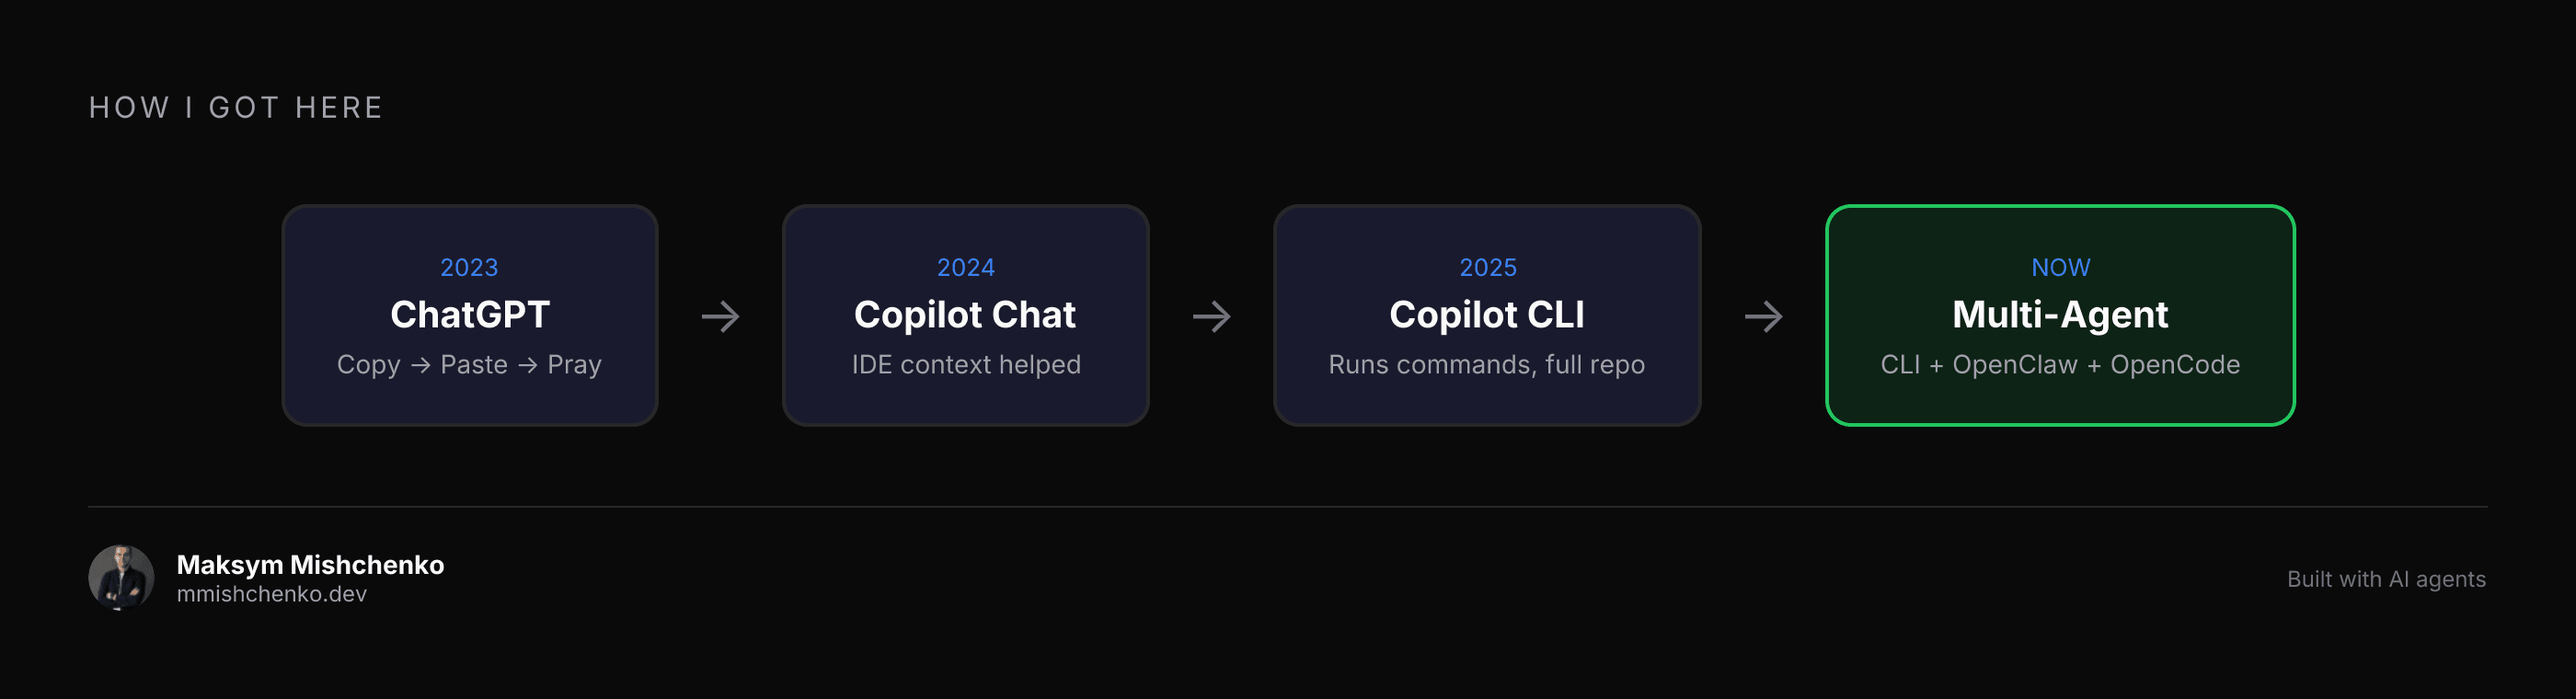
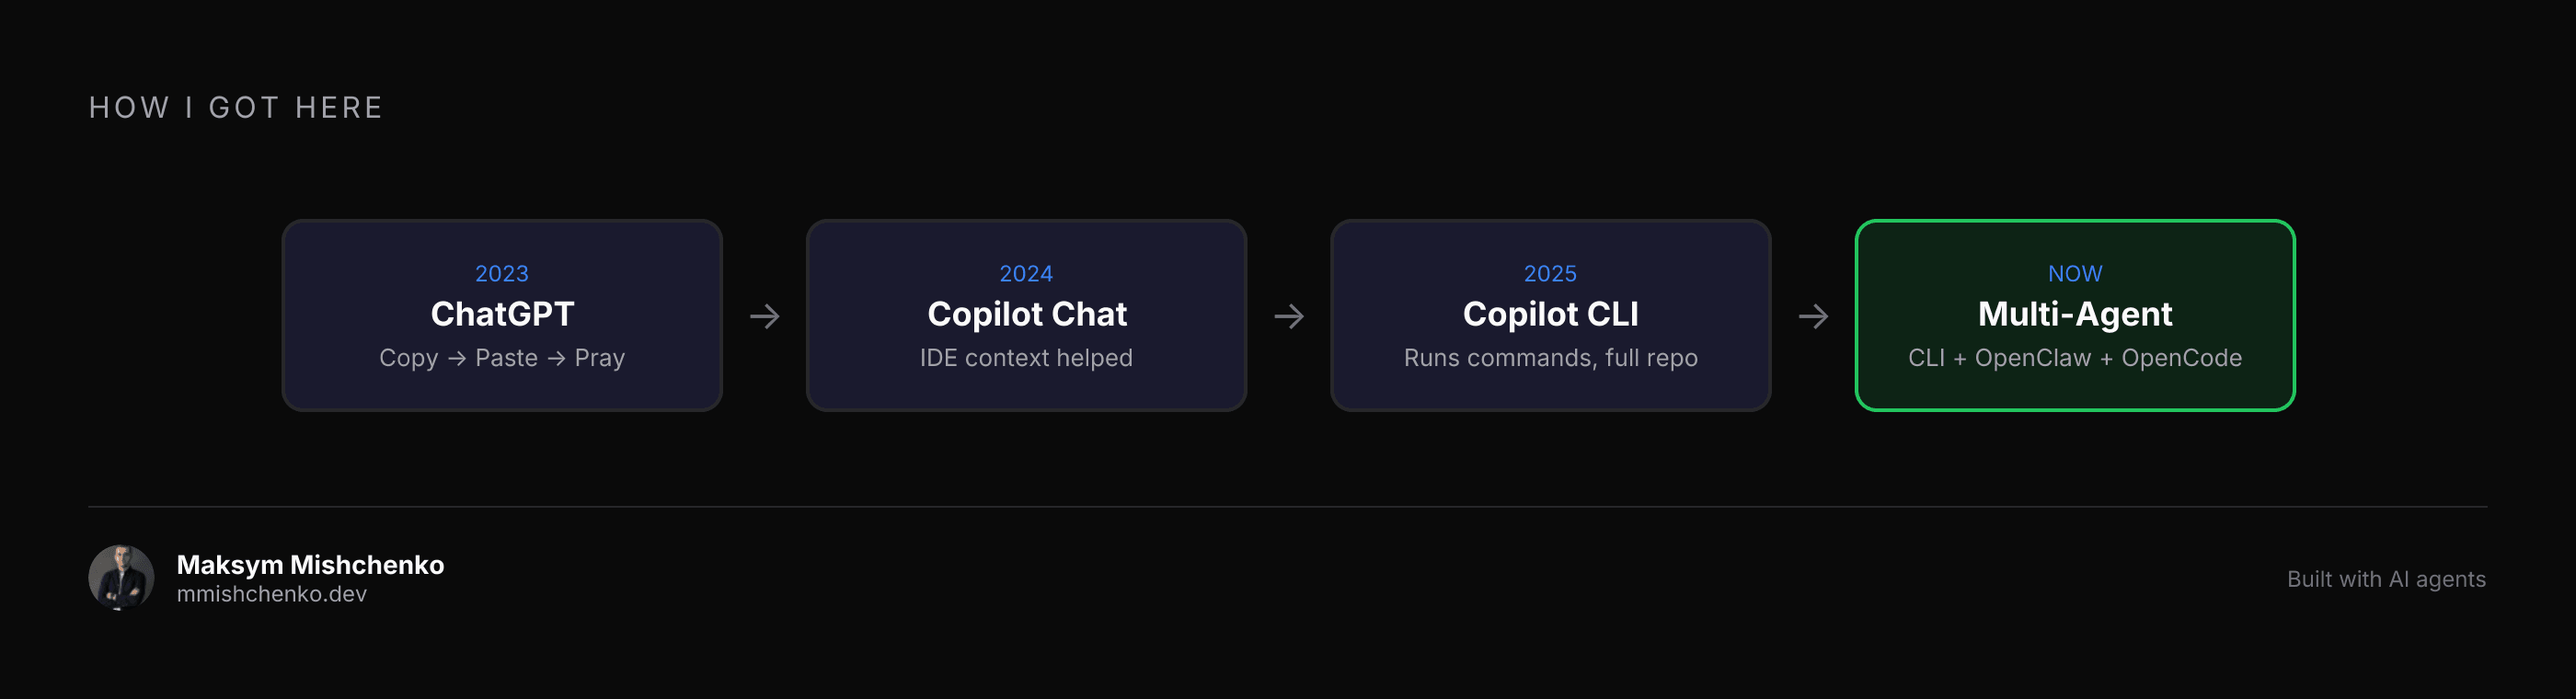
fix: prevent shape overlap in blog images — use fixed widths

diff --git a/scripts/blog-images/generate.ts b/scripts/blog-images/generate.ts
@@ -142,7 +142,7 @@ function TimelineTemplate({ title, steps, avatar }: { title: string; steps: Time
         {
           type: "div",
           props: {
-            style: { display: "flex", alignItems: "center", gap: 20, flex: 1, justifyContent: "center" },
+            style: { display: "flex", alignItems: "center", gap: 12, flex: 1, justifyContent: "center" },
             children: steps.flatMap((step, i) => {
               const box = {
                 type: "div",
@@ -151,21 +151,21 @@ function TimelineTemplate({ title, steps, avatar }: { title: string; steps: Time
                     display: "flex",
                     flexDirection: "column",
                     alignItems: "center",
-                    padding: "24px 28px",
+                    padding: "20px 22px",
                     background: step.highlight ? COLORS.green + "22" : COLORS.card,
                     border: `2px solid ${step.highlight ? COLORS.green : COLORS.border}`,
-                    borderRadius: 14,
-                    minWidth: 200,
+                    borderRadius: 12,
+                    width: 240,
                   },
                   children: [
-                    { type: "span", props: { style: { color: COLORS.accent, fontSize: 13, marginBottom: 6, display: "flex" }, children: step.year } },
-                    { type: "span", props: { style: { color: COLORS.text, fontSize: 20, fontWeight: 700, marginBottom: 6, display: "flex" }, children: `${step.emoji} ${step.title}` } },
-                    { type: "span", props: { style: { color: COLORS.muted, fontSize: 14, textAlign: "center", display: "flex" }, children: step.subtitle } },
+                    { type: "span", props: { style: { color: COLORS.accent, fontSize: 12, marginBottom: 4, display: "flex" }, children: step.year } },
+                    { type: "span", props: { style: { color: COLORS.text, fontSize: 18, fontWeight: 700, marginBottom: 4, display: "flex" }, children: `${step.emoji} ${step.title}` } },
+                    { type: "span", props: { style: { color: COLORS.muted, fontSize: 13, textAlign: "center", display: "flex" }, children: step.subtitle } },
                   ],
                 },
               };
               if (i < steps.length - 1) {
-                return [box, { type: "span", props: { style: { color: COLORS.dim, fontSize: 28, display: "flex" }, children: "→" } }];
+                return [box, { type: "span", props: { style: { color: COLORS.dim, fontSize: 22, display: "flex" }, children: "→" } }];
               }
               return [box];
             }),
@@ -290,48 +290,48 @@ function FlowTemplate({ title, input, steps, outputs, avatar }: { title: string;
                     {
                       type: "div",
                       props: {
-                        style: { display: "flex", padding: "14px 28px", background: COLORS.card, border: `2px solid ${COLORS.orange}`, borderRadius: 10 },
-                        children: [{ type: "span", props: { style: { color: COLORS.text, fontSize: 17, display: "flex" }, children: `${input.emoji} ${input.text}` } }],
+                        style: { display: "flex", padding: "12px 24px", background: COLORS.card, border: `2px solid ${COLORS.orange}`, borderRadius: 10 },
+                        children: [{ type: "span", props: { style: { color: COLORS.text, fontSize: 15, display: "flex" }, children: `${input.emoji} ${input.text}` } }],
                       },
                     },
                   ],
                 },
               },
               // Arrow down
-              { type: "div", props: { style: { color: COLORS.dim, fontSize: 24, display: "flex" }, children: "↓" } },
+              { type: "div", props: { style: { color: COLORS.dim, fontSize: 20, display: "flex" }, children: "↓" } },
               // Steps row
               {
                 type: "div",
                 props: {
-                  style: { display: "flex", gap: 16, alignItems: "center" },
+                  style: { display: "flex", gap: 10, alignItems: "center" },
                   children: steps.flatMap((step, i) => {
                     const box = {
                       type: "div",
                       props: {
-                        style: { display: "flex", flexDirection: "column", alignItems: "center", padding: "18px 24px", background: COLORS.cardHighlight, border: `1px solid ${COLORS.accent}`, borderRadius: 10, minWidth: 160 },
+                        style: { display: "flex", flexDirection: "column", alignItems: "center", padding: "14px 18px", background: COLORS.cardHighlight, border: `1px solid ${COLORS.accent}`, borderRadius: 10, width: 200 },
                         children: [
-                          { type: "span", props: { style: { fontSize: 17, fontWeight: 700, color: COLORS.text, display: "flex" }, children: `${step.emoji} ${step.title}` } },
-                          { type: "span", props: { style: { fontSize: 13, color: COLORS.muted, marginTop: 6, display: "flex" }, children: step.subtitle } },
+                          { type: "span", props: { style: { fontSize: 15, fontWeight: 700, color: COLORS.text, display: "flex" }, children: `${step.emoji} ${step.title}` } },
+                          { type: "span", props: { style: { fontSize: 12, color: COLORS.muted, marginTop: 4, display: "flex" }, children: step.subtitle } },
                         ],
                       },
                     };
-                    if (i < steps.length - 1) return [box, { type: "span", props: { style: { color: COLORS.accent, fontSize: 22, display: "flex" }, children: "→" } }];
+                    if (i < steps.length - 1) return [box, { type: "span", props: { style: { color: COLORS.accent, fontSize: 18, display: "flex" }, children: "→" } }];
                     return [box];
                   }),
                 },
               },
               // Arrow down
-              { type: "div", props: { style: { color: COLORS.dim, fontSize: 24, display: "flex" }, children: "↓" } },
+              { type: "div", props: { style: { color: COLORS.dim, fontSize: 20, display: "flex" }, children: "↓" } },
               // Outputs row
               {
                 type: "div",
                 props: {
-                  style: { display: "flex", gap: 16 },
+                  style: { display: "flex", gap: 12 },
                   children: outputs.map((out) => ({
                     type: "div",
                     props: {
-                      style: { display: "flex", padding: "12px 24px", background: COLORS.green + "22", border: `1px solid ${COLORS.green}`, borderRadius: 10 },
-                      children: [{ type: "span", props: { style: { color: COLORS.green, fontSize: 16, fontWeight: 600, display: "flex" }, children: out } }],
+                      style: { display: "flex", padding: "10px 20px", background: COLORS.green + "22", border: `1px solid ${COLORS.green}`, borderRadius: 10 },
+                      children: [{ type: "span", props: { style: { color: COLORS.green, fontSize: 14, fontWeight: 600, display: "flex" }, children: out } }],
                     },
                   })),
                 },
